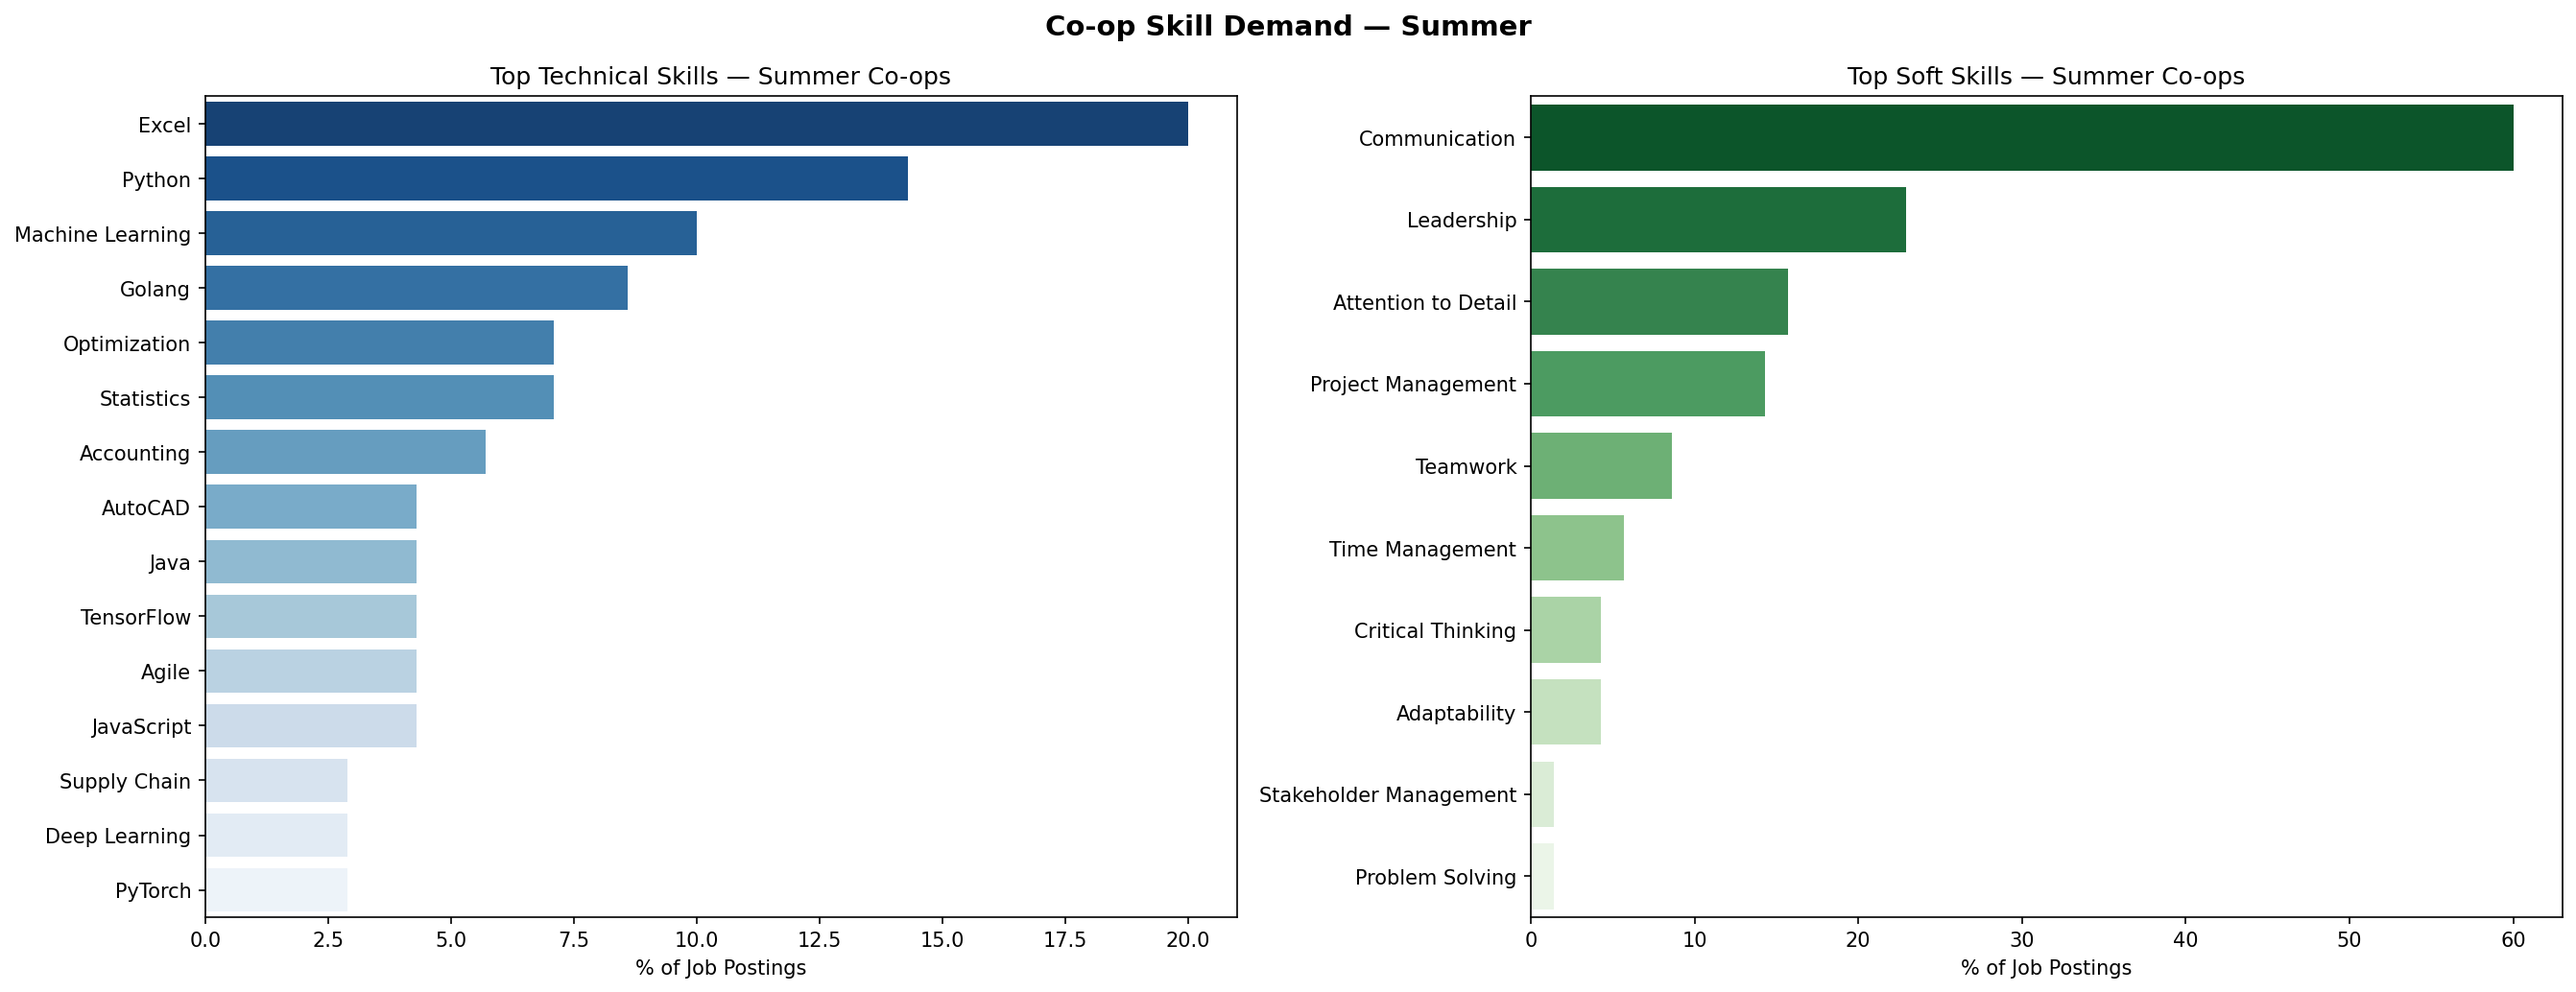
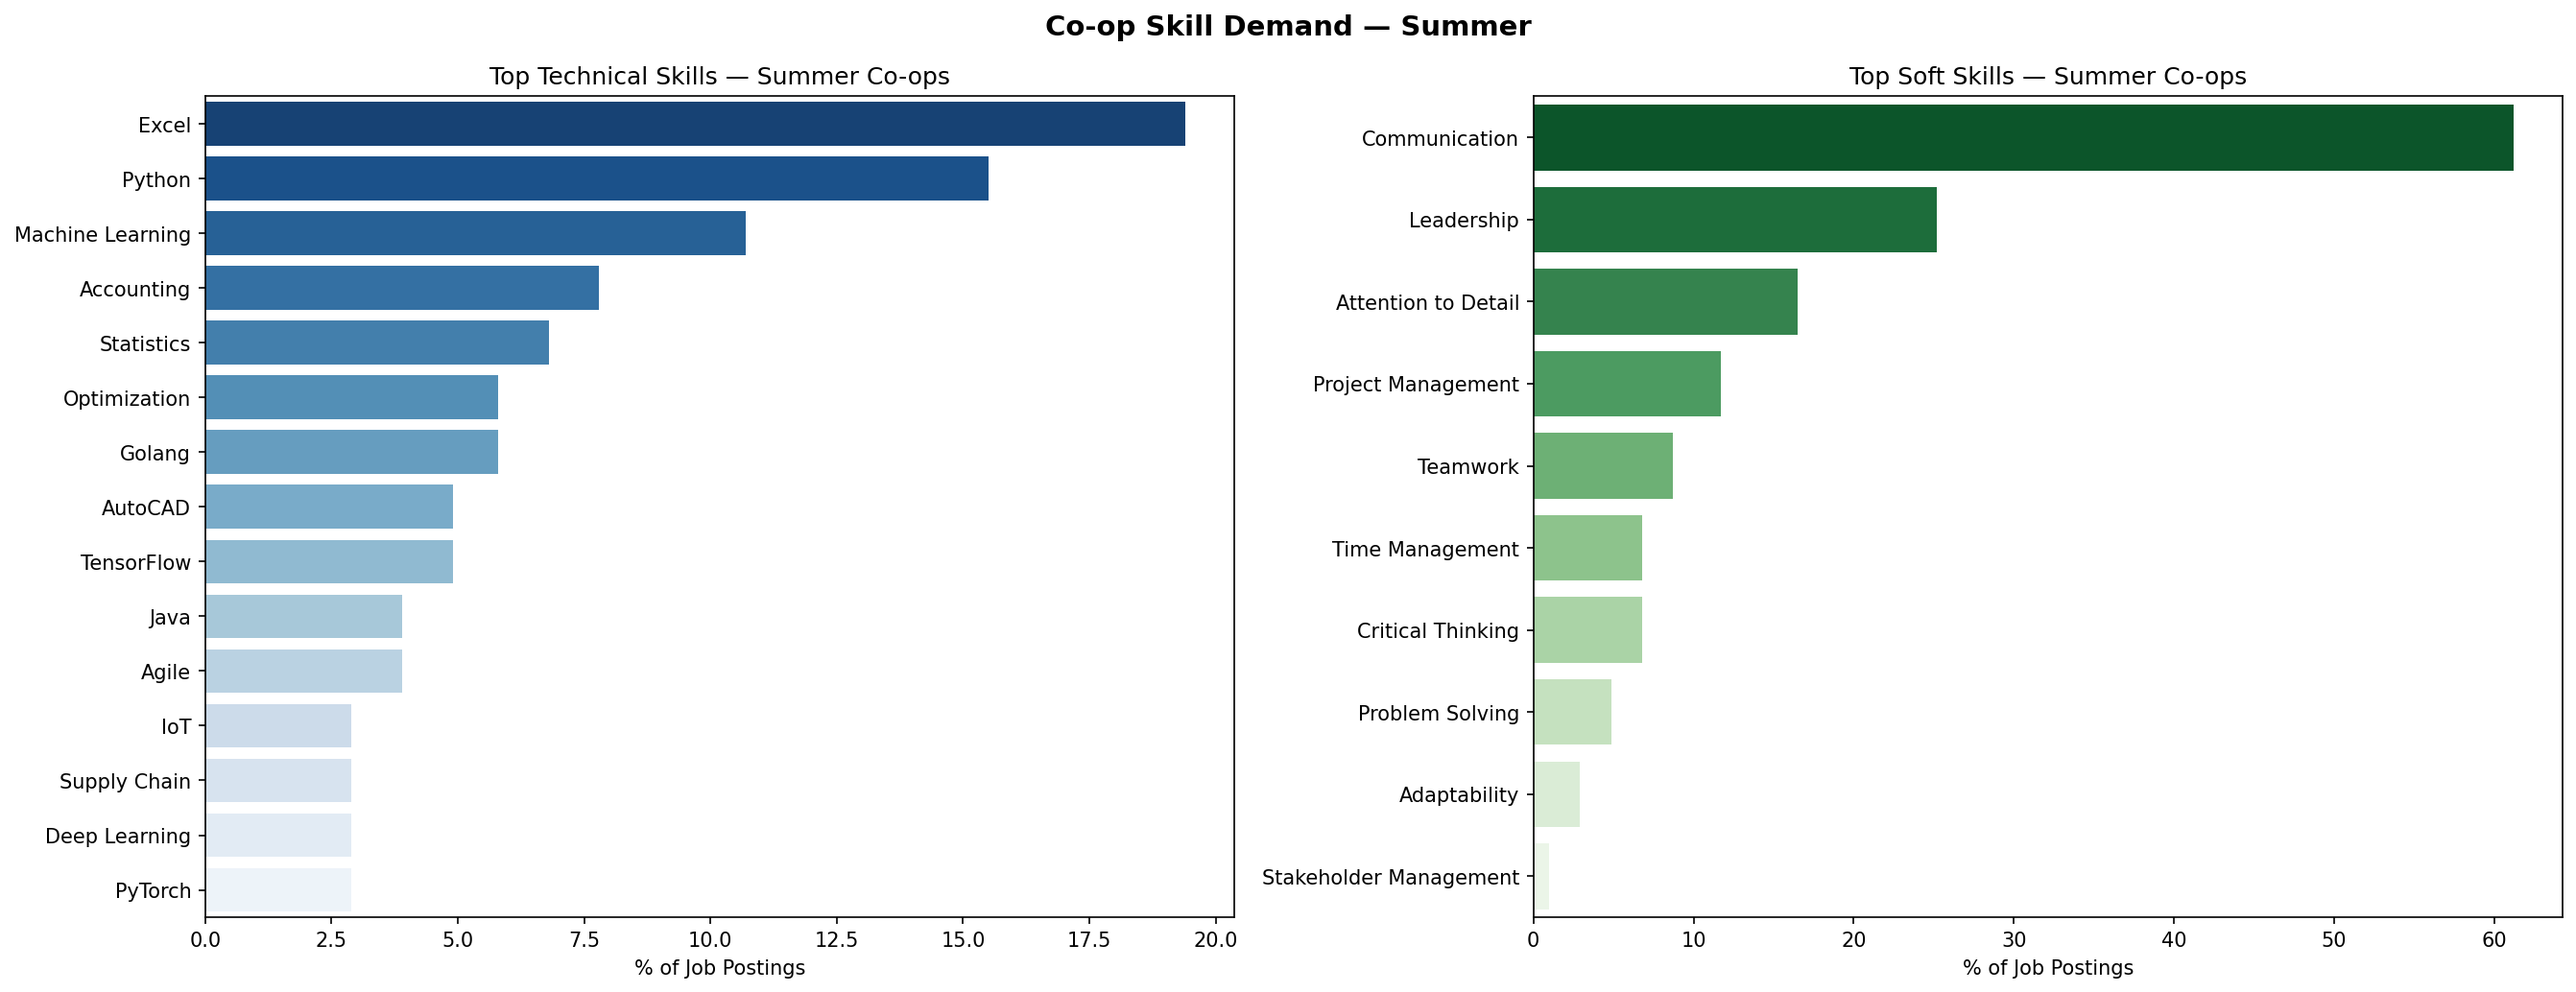
temp endpoint

diff --git a/praccy.html b/praccy.html
@@ -1345,7 +1345,7 @@ footer {
 
 <script src="https://cdnjs.cloudflare.com/ajax/libs/Chart.js/4.4.1/chart.umd.js"></script>
 <script>
-const API = '';
+const API = 'http://localhost:8000';
 
 let currentSeason = 'Summer';
 let allJobs       = [];

diff --git a/three.py b/three.py
@@ -1,0 +1,29 @@
+import pandas as pd
+from datetime import date, timedelta
+
+files = [
+    "jobs_summer_2026.parquet",
+    "jobs_fall_2026.parquet", 
+    "jobs_winter_2027.parquet"
+]
+
+for filename in files:
+    try:
+        df = pd.read_parquet(filename)
+        today = date.today().isoformat()
+        
+        # Add fake data for past 3 days
+        fakes = []
+        for i in range(1, 4):
+            past_date = (date.today() - timedelta(days=i)).isoformat()
+            fake = df[df["scraped_date"] == today].copy()
+            if fake.empty:
+                fake = df.copy()
+            fake["scraped_date"] = past_date
+            fakes.append(fake)
+        
+        combined = pd.concat([df] + fakes, ignore_index=True)
+        combined.to_parquet(filename, index=False)
+        print(f"{filename}: dates now = {sorted(combined['scraped_date'].unique())}")
+    except FileNotFoundError:
+        print(f"{filename} not found, skipping")

diff --git a/api.py b/api.py
@@ -259,6 +259,15 @@ def scrape_stream(season: str, year: int):
         headers={"Cache-Control": "no-cache", "X-Accel-Buffering": "no"},
     )
 
+from fastapi import UploadFile, File
+
+@app.post("/admin/upload-parquet/{filename}")
+async def upload_parquet(filename: str, file: UploadFile = File(...)):
+    path = os.path.join(DATA_DIR, filename)
+    with open(path, "wb") as f:
+        f.write(await file.read())
+    return {"status": "uploaded", "path": path}
+
 @app.get("/api/resources/{season}/{year}")
 def get_resources(season: str, year: int):
     season = season.capitalize()
